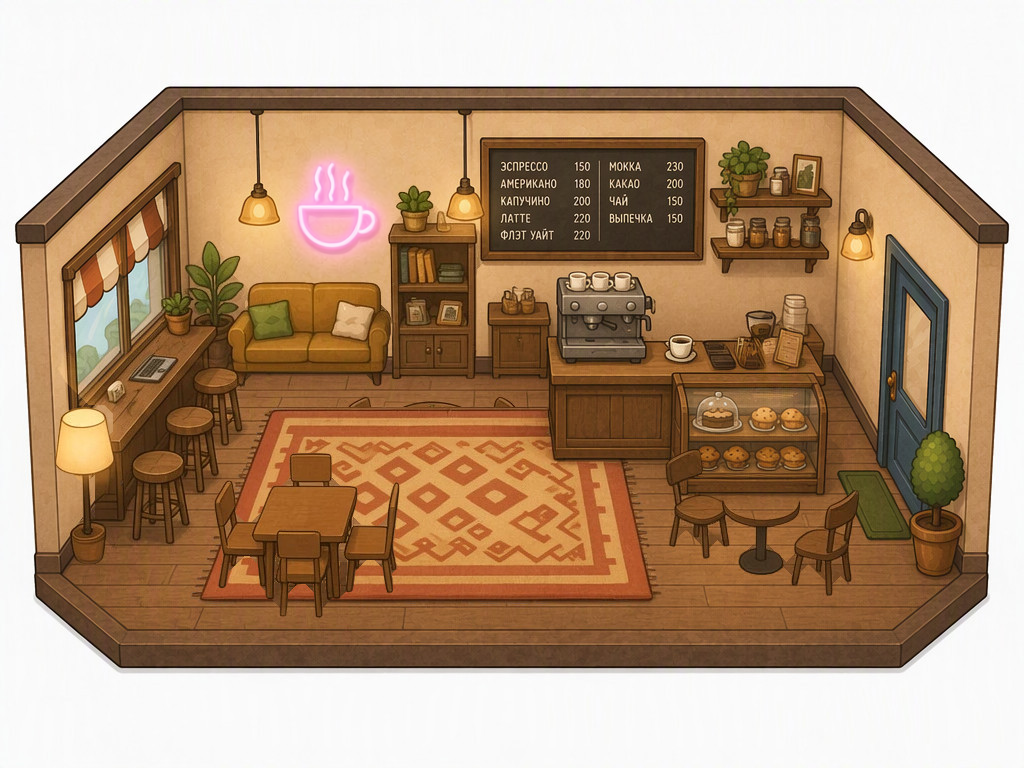
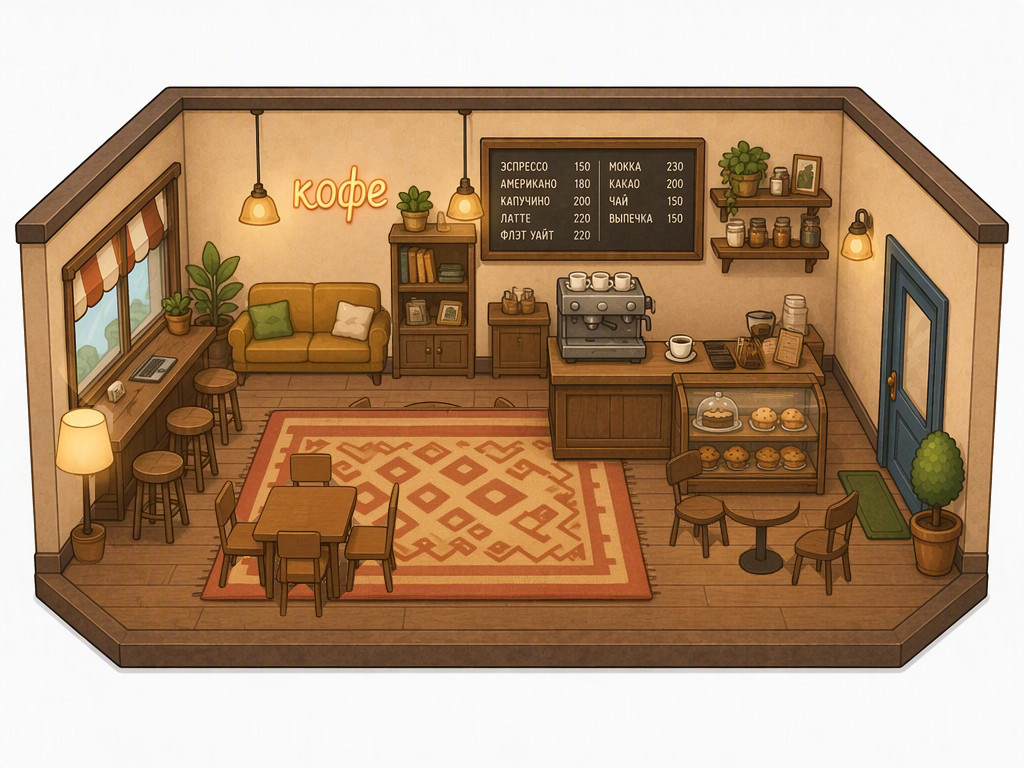
Гости в витрине — спрайты жителей по пояс, парами; неон в зале — надпись «кофе» тёплым светом
Claude-Session: https://claude.ai/code/session_01DHEiVcyPj9Qv6m6TjqeSZK

Changed region(s): [[0.2812, 0.1875, 0.4062, 0.3438]]

diff --git a/src/game/StreetScene.ts b/src/game/StreetScene.ts
@@ -10,7 +10,7 @@ import { Borders, BORDER } from './borders';
 import { Fog } from './fog';
 import { BIG_PARK, CROSSWALK_Y, DISTRICTS, GRID, place, ROAD, SAD_SOUTH, SADOVAYA, SQUARE, WORLD, type DistrictId, type Place } from '../sim/world';
 import type { City } from '../sim/city';
-import { COLORS, RESIDENT_COLOR } from './palette';
+import { COLORS } from './palette';
 import { WeatherFx, type FxKind } from './weatherFx';
 import { Animals } from './animals';
 import type { WindLevel } from '../sim/weather';
@@ -315,6 +315,9 @@ const CAFE_WINDOWS = [
   { x: 118, y: 124, w: 50, h: 46 },
 ];
 const CAFE_DOOR_GLASS = { x: 184, y: 132, w: 24, h: 28 };
+/** Гость в витрине: размер относительно жителя на улице (он в глубине зала) и какая доля спрайта видна над подоконником */
+const GUEST_SCALE = 0.8;
+const GUEST_SHOW = 0.55;
 /** Окна бистро (Деловой квартал): витрина под навесом и стекло двери */
 const BISTRO_WINDOWS = [
   { x: 12, y: 140, w: 82, h: 30 },
@@ -366,6 +369,8 @@ export class StreetScene extends Phaser.Scene {
   private windowLights: { place: Place; image: Phaser.GameObjects.Image }[] = [];
   private walkers: Walker[] = [];
   private guestSpots: { r: Resident; x: number; y: number }[] = [];
+  /** Гости в витрине: те же спрайты жителей, по пояс, за подоконником */
+  private guestSprites: Phaser.GameObjects.Image[] = [];
   private selected: Resident | null = null;
   private selectedPlace: Place | null = null;
   private highlight!: Phaser.GameObjects.Graphics;
@@ -938,6 +943,7 @@ export class StreetScene extends Phaser.Scene {
     const g = this.guests;
     g.clear();
     this.guestSpots = [];
+    for (const s of this.guestSprites) s.setVisible(false);
     if (!mineId) return;
     const r = this.at(mineId).rect;
     if (!open) {
@@ -948,22 +954,43 @@ export class StreetScene extends Phaser.Scene {
       return;
     }
     if (!hall) return; // в киоске не сидят
-    const spots: { x: number; y: number }[] = [];
-    for (const w of mineId === 'bistro' ? BISTRO_WINDOWS : CAFE_WINDOWS)
-      for (let x = w.x + 8; x < w.x + w.w - 4; x += 12) spots.push({ x: r.x + x, y: r.y + w.y + 20 });
+    // Места у окна парами: двое за столиком смотрят друг на друга
+    const spots: { x: number; y: number; flip: boolean }[] = [];
+    for (const w of mineId === 'bistro' ? BISTRO_WINDOWS : CAFE_WINDOWS) {
+      const pairs = Math.max(1, Math.floor((w.w - 6) / 30));
+      const step = (w.w - 6) / pairs;
+      for (let i = 0; i < pairs; i++) {
+        const cx = r.x + w.x + 3 + step * (i + 0.5);
+        const sill = r.y + w.y + w.h - 3;
+        spots.push({ x: cx - 7, y: sill, flip: false }, { x: cx + 7, y: sill, flip: true });
+      }
+    }
     let n = 0;
     for (const res of this.hooks.sim.residents) {
       if (res.placeId !== mineId || res.walking || n >= spots.length) continue;
-      const { x, y } = spots[n++];
-      g.fillStyle(RESIDENT_COLOR[res.kind], 1);
-      g.fillRoundedRect(x - 5, y + 1, 10, 8, { tl: 4, tr: 4, bl: 0, br: 0 });
-      g.fillStyle(0xf2c7a5, 1);
-      g.fillCircle(x, y - 3, 4);
+      const { x, y, flip } = spots[n];
+      const sprite = (this.guestSprites[n] ??= this.add.image(0, 0, 'people', personFrame(res.kind, 'right', 0)));
+      n += 1;
+      // По пояс: нижняя часть спрайта срезана и прячется за подоконником
+      const scale = GUEST_SCALE / ART_SCALE;
+      sprite
+        .setFrame(personFrame(res.kind, 'right', 0))
+        .setScale(scale)
+        .setFlipX(flip)
+        // За стеклом: чуть теплее и темнее, чем на улице
+        .setTint(0xf0dcc0)
+        .setOrigin(0.5, 0)
+        .setDepth(g.depth - 0.1)
+        .setVisible(true);
+      const fh = sprite.frame.height;
+      sprite.setCrop(0, 0, sprite.frame.width, fh * GUEST_SHOW);
+      sprite.setPosition(x, y - fh * GUEST_SHOW * scale);
+      const head = y - fh * GUEST_SHOW * scale + 6;
       if (res === this.selected) {
         g.lineStyle(2, COLORS.outline, 1);
-        g.strokeCircle(x, y, 9);
+        g.strokeCircle(x, head + 4, 10);
       }
-      this.guestSpots.push({ r: res, x, y });
+      this.guestSpots.push({ r: res, x, y: head + 4 });
     }
   }
 

diff --git a/src/game/hallItems.ts b/src/game/hallItems.ts
@@ -5,7 +5,7 @@ export const HALL_ITEMS: Record<string, [number, number, number, number]> = {
   chandelier: [212, 22, 276, 152],
   garland: [44, 66, 134, 280],
   mirror: [277, 57, 87, 120],
-  neon: [276, 64, 114, 125],
+  neon: [271, 77, 117, 65],
   paperlamp: [223, 22, 255, 152],
   pendants: [215, 22, 263, 152],
   rack: [248, 86, 117, 104],
